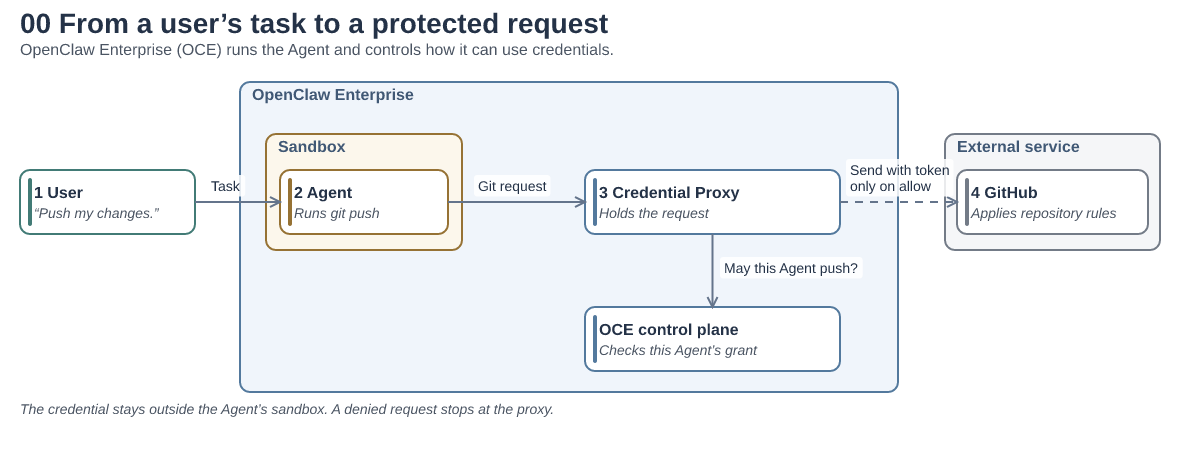
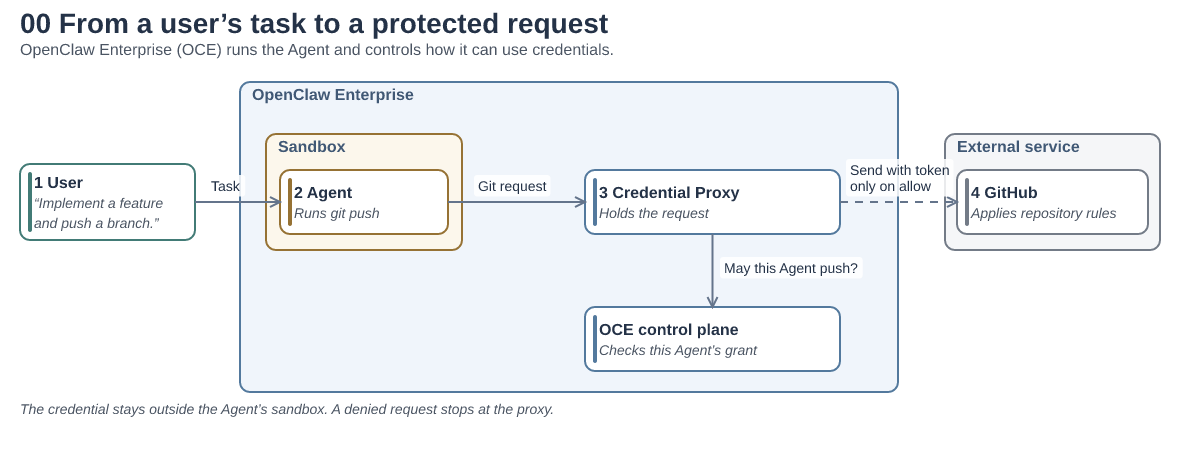
Start the credential walkthrough with a feature branch task

Changed region(s): [[0.0, 0.3422, 0.1831, 0.56]]

diff --git a/scripts/interface-sketches/examples/platform-roles.ts b/scripts/interface-sketches/examples/platform-roles.ts
@@ -10,7 +10,12 @@ export default {
     { id: "provider", title: "External service", role: "external", pin: [945, 134, 215, 116] },
   ],
   nodes: [
-    { id: "user", title: "1   User", detail: "“Push my changes.”", pin: [20, 170, 175, 64] },
+    {
+      id: "user",
+      title: "1   User",
+      detail: "“Implement a feature and push a branch.”",
+      pin: [20, 164, 175, 76],
+    },
     {
       id: "agent",
       title: "2   Agent",

diff --git a/docs/design/credential-proxy-architecture.md b/docs/design/credential-proxy-architecture.md
@@ -1,10 +1,10 @@
 # Credential Proxy architecture
 
-Start with a user asking an Agent to push a change. OpenClaw Enterprise (OCE) runs the Agent in a sandbox. The Agent runs ordinary Git commands. OCE keeps the GitHub App signing key and the installation token outside that sandbox.
+A user asks an Agent, “Implement a feature and push a branch.” OpenClaw Enterprise (OCE) runs the Agent in a sandbox. The Agent runs ordinary Git commands. OCE keeps the GitHub App signing key and the installation token outside that sandbox.
 
 ## From the user to GitHub
 
-![A user gives the Agent a task. The Agent runs git push. The Credential Proxy asks the OCE control plane whether the Agent may push and forwards the request to GitHub only on allow.](../assets/credential-proxy/platform-roles.png)
+![A user asks the Agent to implement a feature and push a branch. The Agent runs git push. The Credential Proxy asks the OCE control plane whether the Agent may push and forwards the request to GitHub only on allow.](../assets/credential-proxy/platform-roles.png)
 
 The task tells the Agent what to do. An operator’s grant determines whether it may do it. The Credential Proxy checks the request against that grant through the control plane. If OCE denies the push, the proxy stops it. If OCE allows it, the proxy adds the credential and GitHub applies its own repository rules.
 
